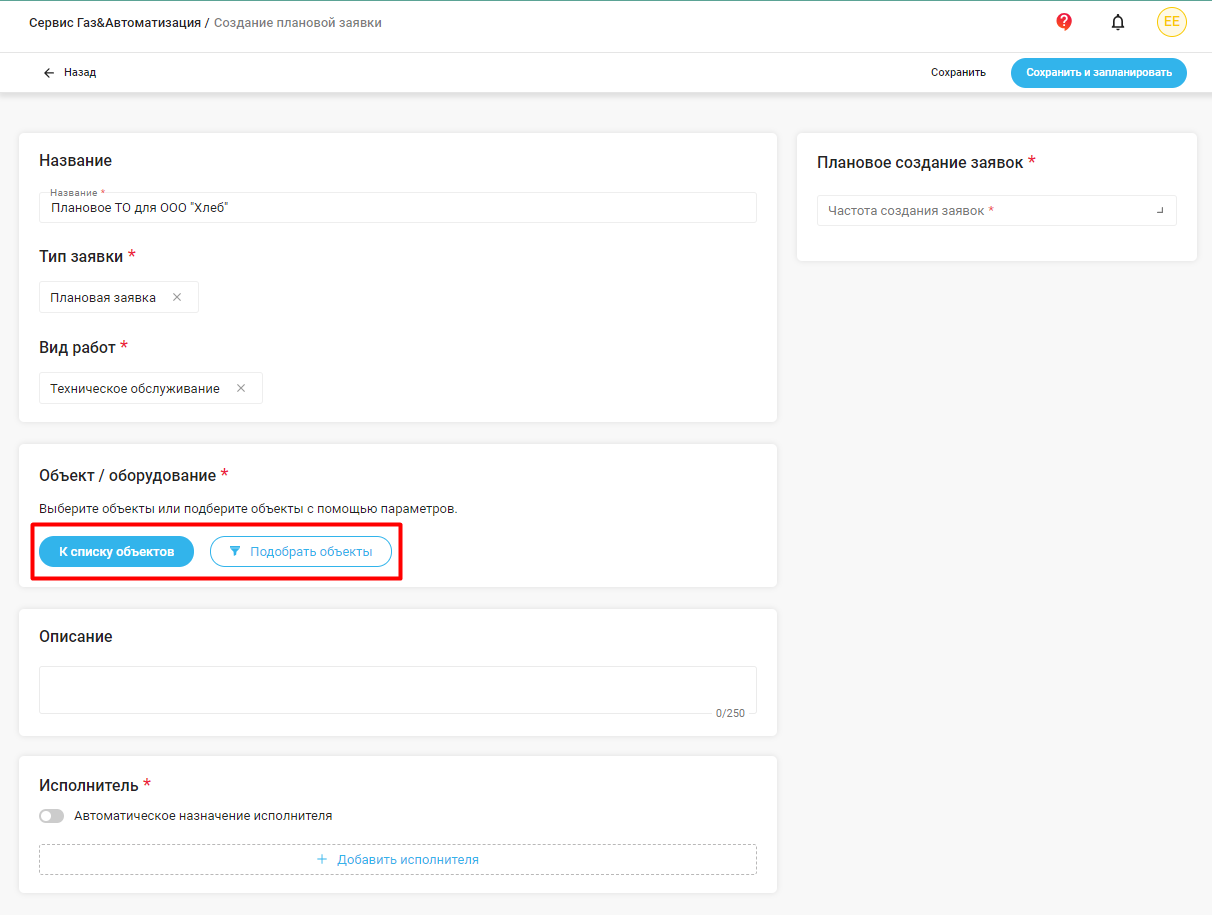
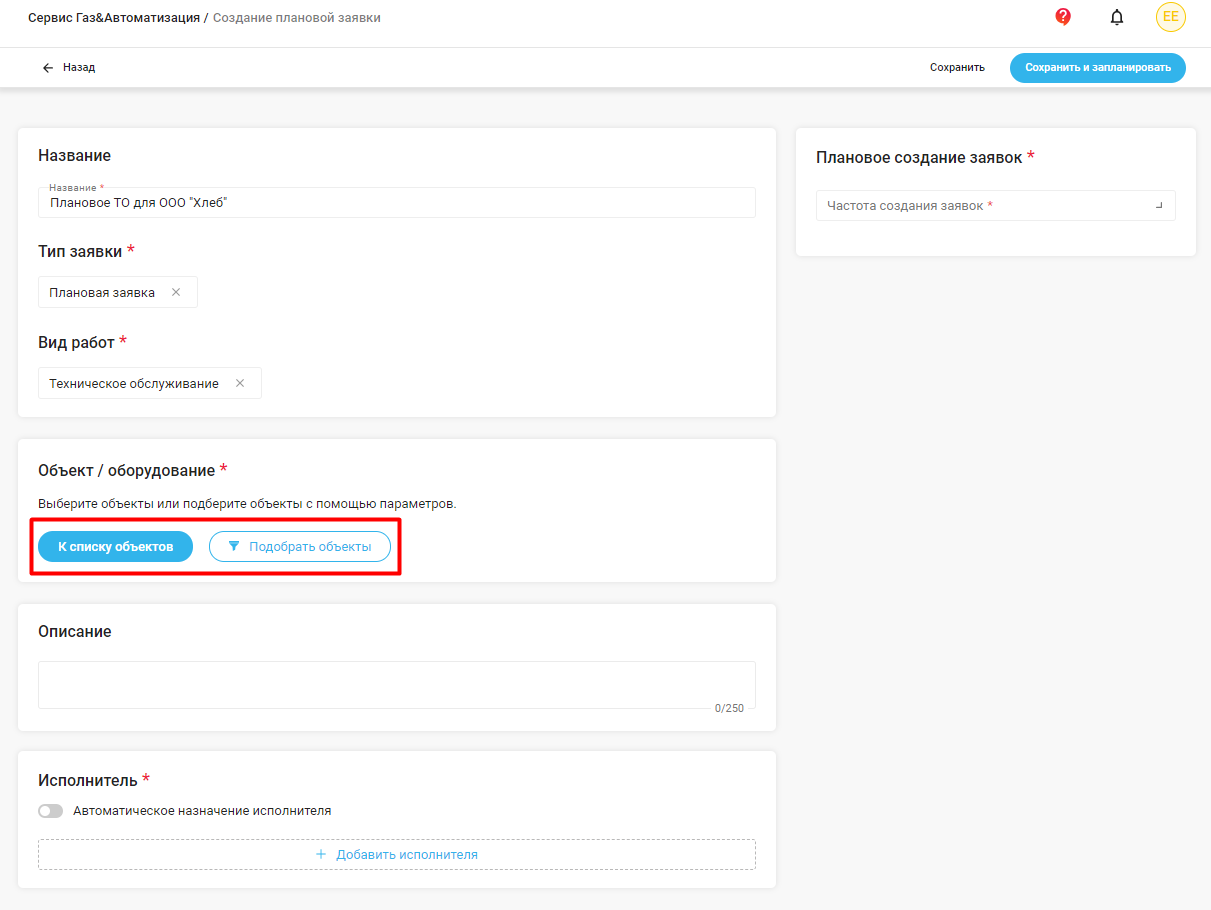
картинка

diff --git a/docs/FAQ/RU/user/PlannedTickets.md b/docs/FAQ/RU/user/PlannedTickets.md
@@ -62,16 +62,15 @@ keywords: плановая заявка, планировщик работ, hube
 
     <li><strong>Плановые заявки</strong> можно подавать не только на один <strong>Объект/оборудование</strong>, но и на
         группу <strong>Объектов</strong> с указанным выше <strong>Видом работ</strong>. После выбора <strong>Вида
-            работ</strong> станут активными кнопки <strong>Объекты</strong>
-        - <strong>К списку объектов</strong> для выбора <strong>Объектов</strong> вручную, а также кнопка <strong>Объекты</strong>
-        - <strong>Подобрать объекты</strong> для установки дополнительных фильтров для подбора <strong>Объектов</strong>. Нажмите на кнопку <strong>К списку объектов</strong> и установите флажки на <strong>Объектах</strong>,
-        которые вам нужны для
-        создания <strong>Заявок</strong>, затем нажмите кнопку <strong>Выбрать</strong>.
+            работ</strong> станут активными кнопки <strong>К списку объектов</strong> для выбора <strong>Объектов</strong> вручную, а также кнопка <strong>Подобрать объекты</strong> для установки дополнительных фильтров для подбора <strong>Объектов</strong>. 
 
      <p><div>
     <img style="margin: 0 auto; display: block; max-width: 100%;"
          src="/attachments/images/FAQ/USER/PlannedTickets/PlannedTicket1.jpg"/>
 </div></p>
+<p>Нажмите на кнопку <strong>К списку объектов</strong> и установите флажки на <strong>Объектах</strong>,
+        которые вам нужны для
+        создания <strong>Заявок</strong>, затем нажмите кнопку <strong>Выбрать</strong>.</p>
         <p>
         <div>
             <img style="margin: 0 auto; display: block; max-width: 100%;"
@@ -79,7 +78,7 @@ keywords: плановая заявка, планировщик работ, hube
         </div>
         </p>
 
-        Уточнить выбор <strong>Объектов</strong> можно с помощью фильтров по кнопке <strong>Подобрать объекты</strong>.
+        Если необходимо, то можно уточнить выбор <strong>Объектов</strong> с помощью фильтров по кнопке <strong>Подобрать объекты</strong>.
         <p>
         <div>
             <img style="margin: 0 auto; display: block; max-width: 100%;"
